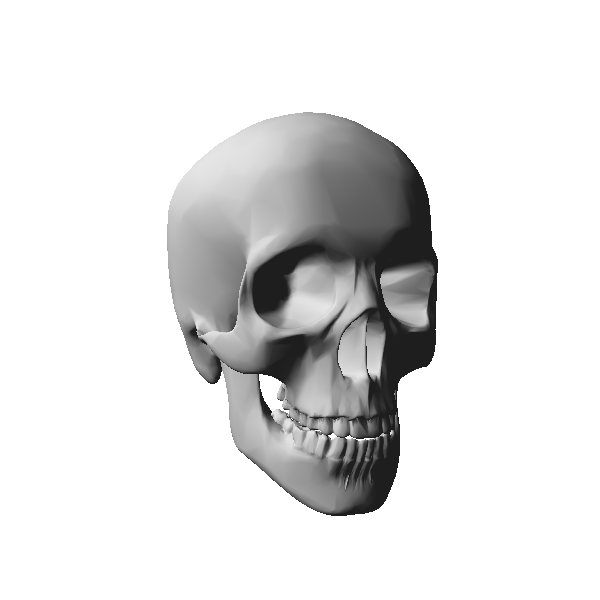
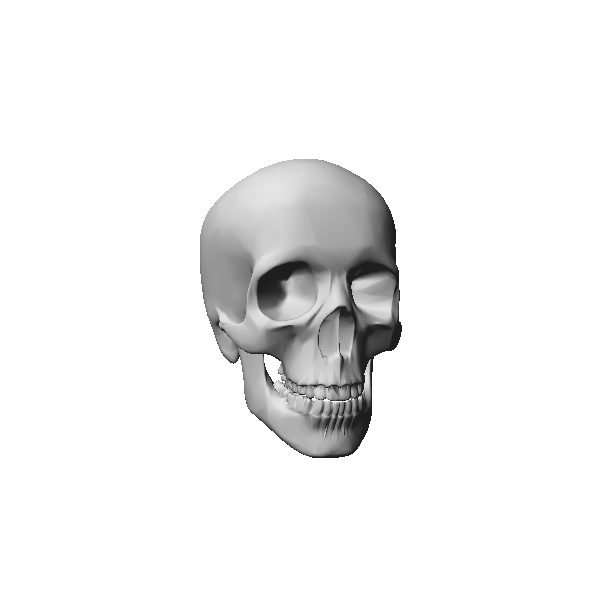
Enable and disable gl culling with 'c'

Changed region(s): [[0.27, 0.18, 0.75, 0.87]]

diff --git a/lab7/task.cpp b/lab7/task.cpp
@@ -8,8 +8,6 @@
 #include <glm/matrix.hpp>
 #include <glm/gtc/matrix_transform.hpp>
 #include <float.h>
-#include <tuple>
-#include <map>
 
 int g_width = 600, g_height = 600;
 
@@ -24,12 +22,13 @@ float g_min_x = FLT_MAX, g_min_y = FLT_MAX, g_min_z = FLT_MAX;
 float g_max_x = FLT_MIN, g_max_y = FLT_MIN, g_max_z = FLT_MIN;
 
 const int WIRE = 0, CONST_SHADING = 1, GOURAUD_SHADING = 2;
-int g_mode = 0;
+int g_mode = 0; // WIRE, CONST_SHADING or GOURAUD_SHADING
+bool g_gl_culling = false;
 
-glm::vec4 g_camera = glm::vec4(20, 0, 0, 1),
+glm::vec4 g_camera = glm::vec4(20, 0, 5, 1),
           g_view = glm::vec4(0, 0, 0, 1),
           g_light = glm::vec4(20, 20, 20, 1), // updated with data from light.txt
-          g_up = glm::vec4(0, 1, 0, 1);
+          g_up = glm::vec4(0, 0, 1, 1);
 
 float g_size_x, g_size_y, g_size_z, g_center_x, g_center_y, g_center_z, g_scale;
 
@@ -51,17 +50,13 @@ double intensity(glm::vec3 normal, glm::vec3 light_polygon) {
   return Ii*kd*LN + Ia*ka;
 }
 
-std::map<std::tuple<float, float, float>, glm::vec3> pointNormalTable;
-glm::vec3 vertexNormal(glm::vec4 point) {
-  if (pointNormalTable.find(std::make_tuple(point.x, point.y, point.z)) != pointNormalTable.end()) {
-    return pointNormalTable[std::make_tuple(point.x, point.y, point.z)];
-  }
+glm::vec3 vertexNormal(glm::vec4 point, glm::mat4 M) {
   glm::vec3 normal = glm::vec3(0, 0, 0);
 
   int number_of_polygons = 0;
   for (auto t : g_triangles) {
     if (t.v1 == point || t.v2 == point || t.v3 == point) {
-      glm::vec4 v1 = t.v1, v2 = t.v2, v3 = t.v3;
+      glm::vec4 v1 = t.v1*M, v2 = t.v2*M, v3 = t.v3*M;
       glm::vec3 n = glm::normalize(glm::cross(glm::vec3(v2 - v1), glm::vec3(v3 - v1)));
       normal += n;
       number_of_polygons++;
@@ -69,28 +64,11 @@ glm::vec3 vertexNormal(glm::vec4 point) {
   }
 
   normal /= glm::vec3(1.0f/number_of_polygons, 1.0f/number_of_polygons, 1.0f/number_of_polygons);
-  pointNormalTable[std::make_tuple(point.x, point.y, point.z)] = normal;
   return normal;
 }
 
 void color(double intensity) {
   glColor3ub(intensity, intensity, intensity);
-}
-
-std::ostream &operator<< (std::ostream &out, const glm::mat4 &m) {
-  for (int row = 0; row < 4; row++) {
-    for (int col = 0; col < 4; col++) {
-      out << m[col][row] << "\t";
-    }
-    out << std::endl;
-  }
-
-  return out;
-}
-
-std::ostream &operator<< (std::ostream &out, const glm::vec4 &v) {
-  out << "(" << v.x << ", " << v.y << ", " << v.z << ", " << v.w << ")";
-  return out;
 }
 
 void display() {
@@ -99,7 +77,12 @@ void display() {
   glClearColor(1.0f, 1.0f, 1.0f, 1.0f);
   glClear(GL_COLOR_BUFFER_BIT | GL_DEPTH_BUFFER_BIT);
   glEnable(GL_DEPTH_TEST);
-  glEnable(GL_CULL_FACE);
+
+  if (g_gl_culling) {
+    glEnable(GL_CULL_FACE);
+  } else {
+    glDisable(GL_CULL_FACE);
+  }
   glCullFace(GL_BACK);
 
   if (g_mode == WIRE) {
@@ -115,7 +98,7 @@ void display() {
   glm::mat4 S = glm::scale(glm::mat4(), glm::vec3(g_scale, g_scale, g_scale));
   glm::mat4 L = glm::lookAt(glm::vec3(g_camera), glm::vec3(g_view), glm::vec3(g_up));
   glm::mat4 T = glm::translate(glm::mat4(), glm::vec3(-g_center_x, -g_center_y, -g_center_z));
-  // glm::mat4 P = glm::perspective(glm::radians(45.0f), (float)g_width/g_height, 1.0f, 100.0f);
+  glm::mat4 P = glm::perspective(glm::radians(45.0f), (float)g_width/g_height, 1.0f, 100.0f); // not in use
   glm::mat4 M = glm::transpose(S*L*T);
 
   for (auto t : g_triangles) {
@@ -123,7 +106,15 @@ void display() {
     glm::vec4 v1 = t.v1*M, v2 = t.v2*M, v3 = t.v3*M;
     glm::vec3 n = glm::cross(glm::vec3(v2 - v1), glm::vec3(v3 - v1));
     glm::vec4 c = (v1 + v2 + v3) / glm::vec4(3, 3, 3, 3);
-    glm::vec3 light_polygon = glm::vec3(g_light*M - c);
+    glm::vec3 light_polygon = glm::vec3(g_light*M - c); // camera is transformed to achieve
+                                                        // effect of moving around object when and not
+                                                        // rotating object
+    glm::vec3 camera_polygon = glm::vec3(g_camera - c);
+
+    if (!g_gl_culling && glm::dot(camera_polygon, n)/glm::distance(camera_polygon, n) < 0) {
+      glEnd();
+      continue;
+    }
 
     if (g_mode == WIRE) {
       glColor3f(0.0f, 0.0f, 0.0f);
@@ -137,27 +128,28 @@ void display() {
       glVertex3f(t.v2.x, t.v2.y, t.v2.z);
       glVertex3f(t.v3.x, t.v3.y, t.v3.z);
     } else {
-      double I1 = intensity(vertexNormal(t.v1), light_polygon);
+      double I1 = intensity(vertexNormal(t.v1, M), light_polygon);
       color(I1);
       glVertex3f(t.v1.x, t.v1.y, t.v1.z);
 
-      double I2 = intensity(vertexNormal(t.v2), light_polygon);
+      double I2 = intensity(vertexNormal(t.v2, M), light_polygon);
       color(I2);
       glVertex3f(t.v2.x, t.v2.y, t.v2.z);
 
-      double I3 = intensity(vertexNormal(t.v3), light_polygon);
+      double I3 = intensity(vertexNormal(t.v3, M), light_polygon);
       color(I3);
       glVertex3f(t.v3.x, t.v3.y, t.v3.z);
     }
     glEnd();
   }
+
   glFlush();
 }
 
 void updatePerspective() {
 	glMatrixMode(GL_PROJECTION);
 	glLoadIdentity();
-  gluPerspective(45.0f, (float)g_width/g_height, 1.0f, 100.0f);
+  gluPerspective(45.0f, (float)g_width/g_height, 1, 100);
 }
 
 void resize(int width, int height) {
@@ -209,6 +201,9 @@ void keyboard(unsigned char key, int x, int y) {
   } else if (key == 'l' || key == 'L') {
     glm::mat4 R = glm::rotate(glm::mat4(), -0.523599f, glm::vec3(g_up)); // -30 degrees
     g_light = g_light * R;
+    glutPostRedisplay();
+  } else if (key == 'c' || key == 'C') {
+    g_gl_culling = !g_gl_culling;
     glutPostRedisplay();
   }
 }
